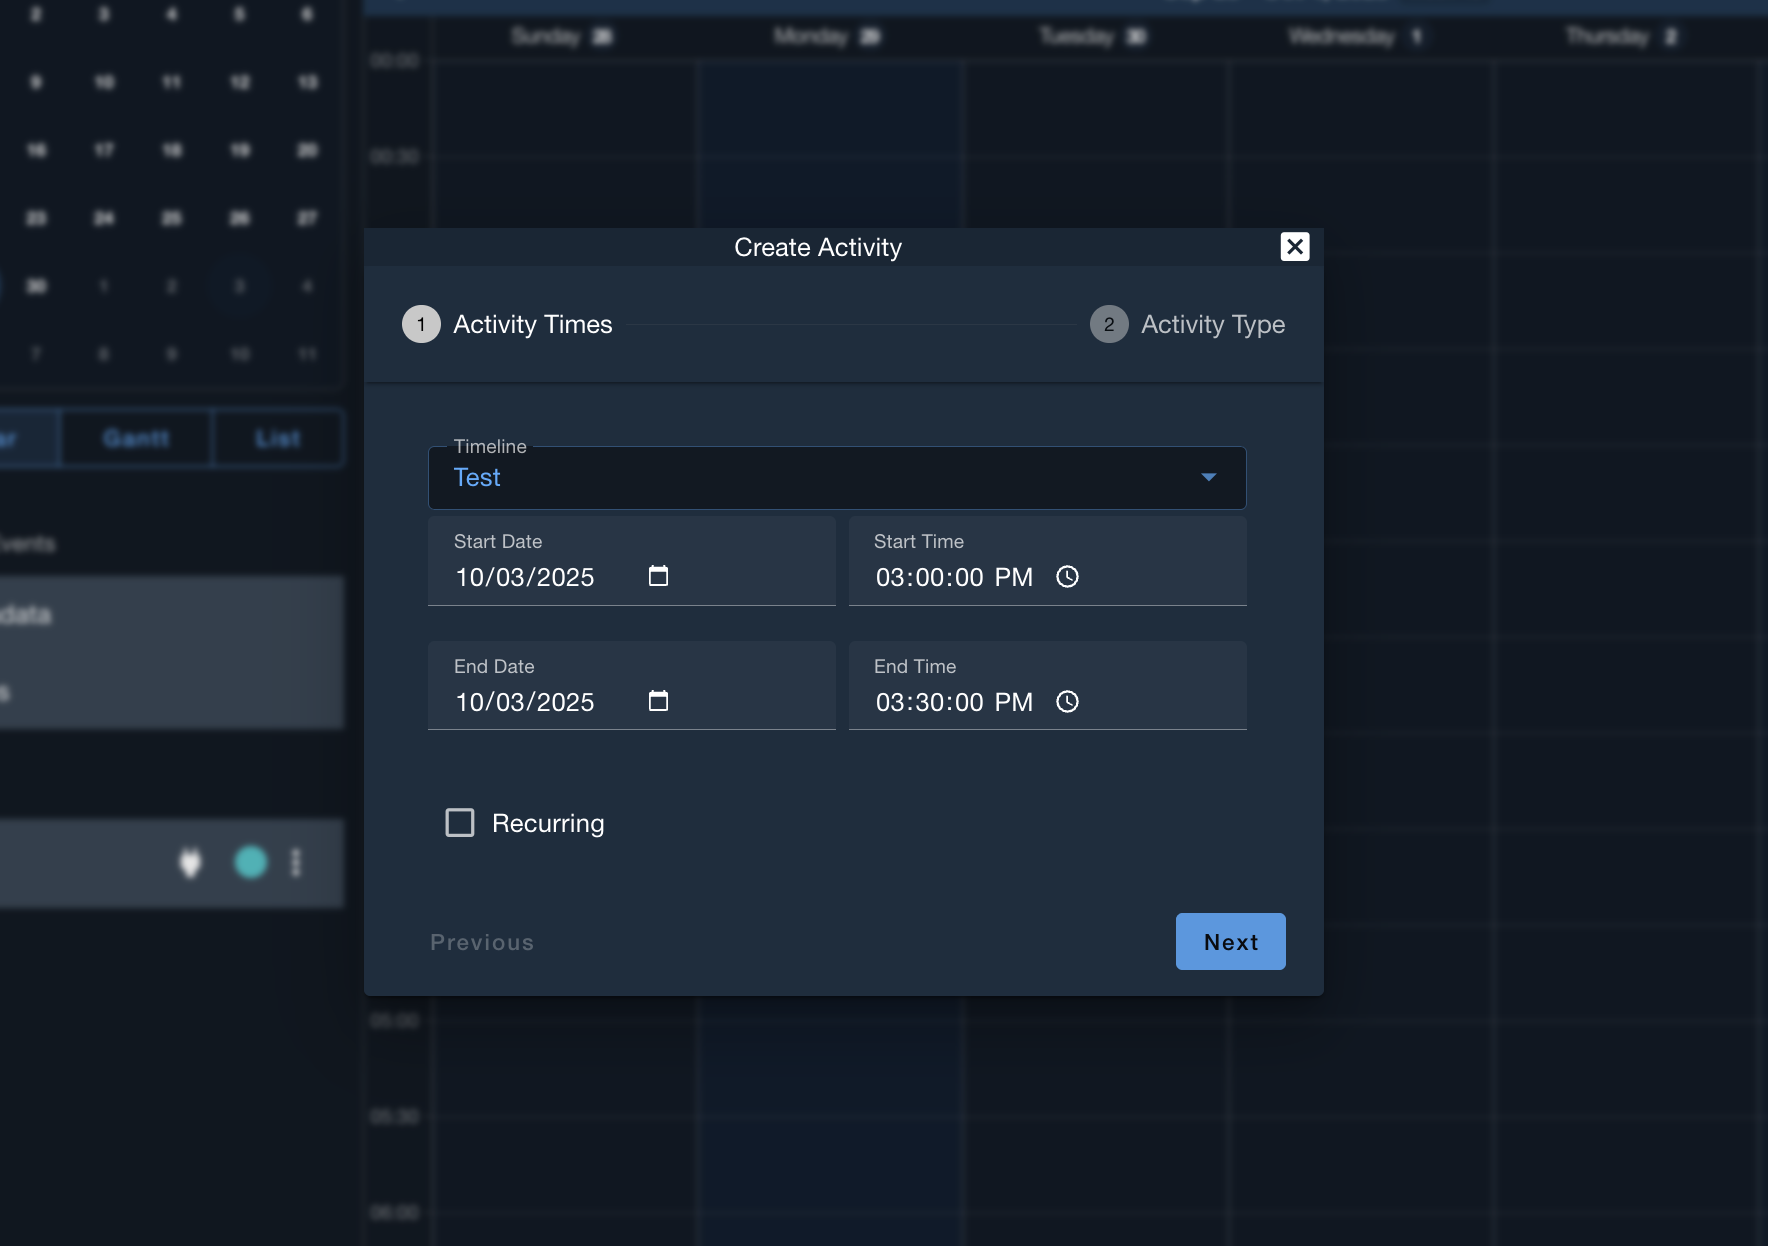
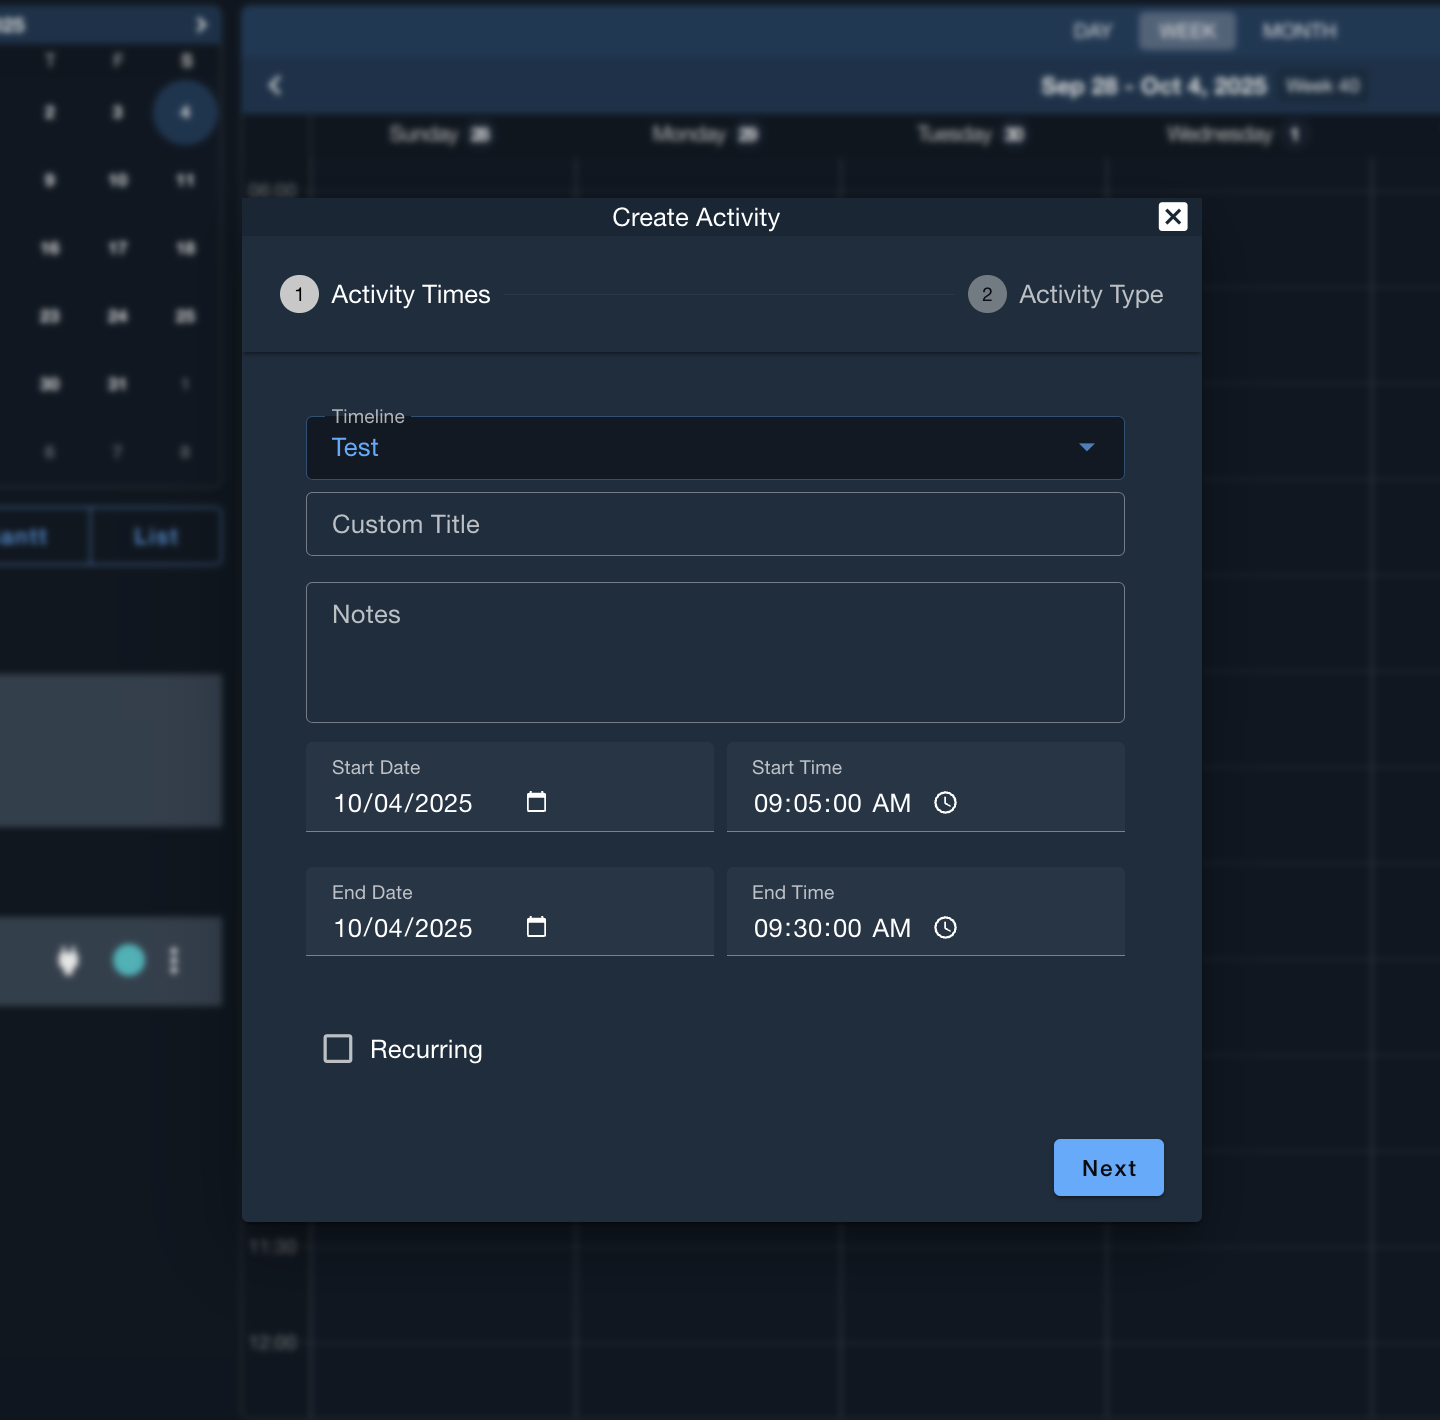
Calendar documentation

diff --git a/docs.openc3.com/docs/tools/calendar.md b/docs.openc3.com/docs/tools/calendar.md
@@ -43,7 +43,7 @@ You then record the note to create the note event on the calendar.
 
 ### Activity
 
-Scheduled on a timeline, activities take both a start and end time.
+Scheduled on a timeline, activities take both a start and end time. A custom title and notes can also be specified. If a custom title is specified, that title will appear on the calendar instead of the default title that is generated.
 
 ![CreateActivity1](/img/calendar/create_activity1.png)
 
@@ -53,7 +53,7 @@ Activities can run single commands, run a script, or simply "Reserve" space on t
 
 When calendar activities are scheduled they appear with a status icon, compliant with the AstroUX standards. As calendar activities are executed, there are lifecycle hooks set to track and display the latest status update from the executed script or command. Green circle will signify nominal (created, started, completed states), yellow square signifies warnings (script stopped, paused, hit breakpoint, completed with errors, disabled), and red triangle signifies error states (error, failed, crashed). Clicking into a Calendar Activity will show the details of the status updates.
 
-![Calendar](/img/calendar/calendar.png)
+![Activity](/img/calendar/activity.png)
 
 ### Gantt View
 
